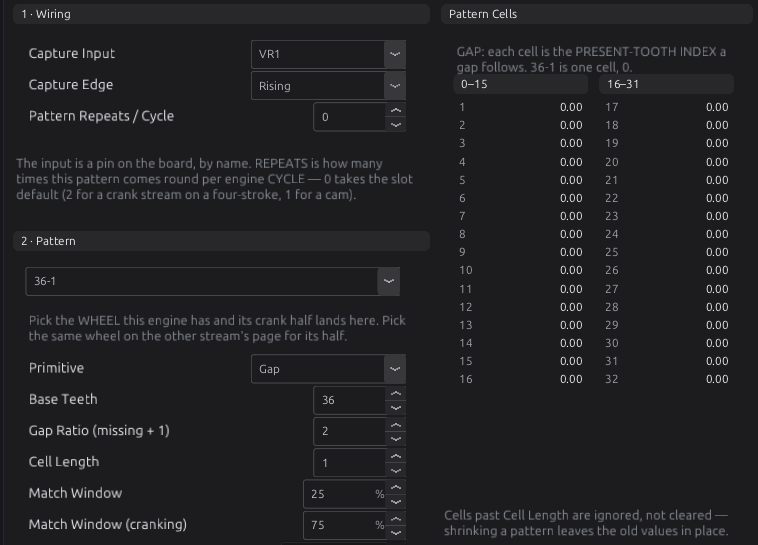
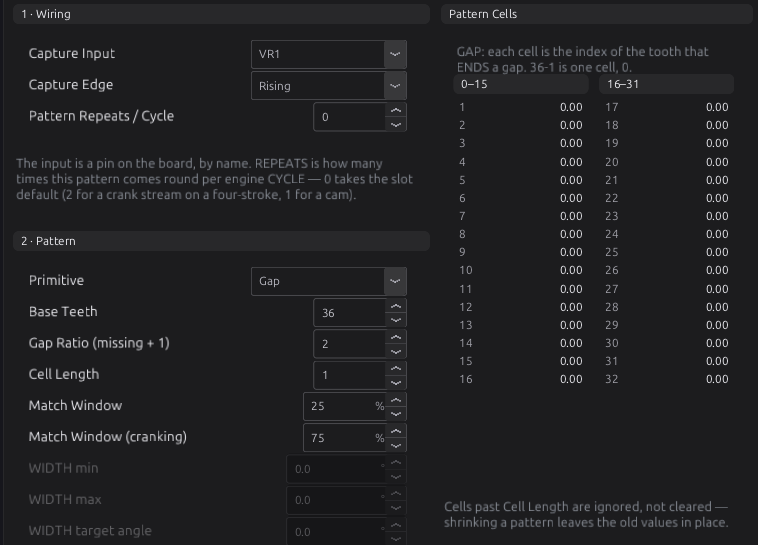
manual: stream pages have no wheel picker; install wheels from the Trigger Library

diff --git a/manual/docs/part3/16-trigger.md b/manual/docs/part3/16-trigger.md
@@ -369,7 +369,7 @@ The page, in the order it appears:
 Click **Crank Primary** to open its page.
 
 <figure markdown>
-  ![The Crank Primary page: 1 Wiring, 2 Pattern with the wheel picker set to 60-2, the Pattern Cells, 3 Proof with the dial and trace, and the Right Now readouts](../img/studio/trigger-crank-primary.png)
+  ![The Crank Primary page: 1 Wiring, 2 Pattern set for a 60-2, the Pattern Cells, 3 Proof with the dial and trace, and the Right Now readouts](../img/studio/trigger-crank-primary.png)
   <figcaption>Figure 16.12 — Crank Primary with a 60-2 wheel. The Proof panel draws this stream as it
   is set now.</figcaption>
 </figure>
@@ -388,11 +388,11 @@ Click **Crank Primary** to open its page.
 
 **2 · Pattern**
 
-1. Pick your wheel in the drop-down at the top of the panel. It lists every wheel in the library
-   that has a crank half. Picking one writes that half's pattern settings into this stream: the
-   primitive, teeth, gap ratio and cells, or the width band. It does not touch the input, the edge
-   or the offset.
-   <!-- src: apps/studio-jf/tools/layout/engine_pages.py -->
+1. Install your wheel from the Trigger Library with **Apply to ECU** (Step 5). It writes the pattern
+   of every stream at once, so this panel is already filled in. There is no wheel list on this page:
+   a list per stream could not tell apart wheels that share a crank pattern, such as the 2JZ with
+   and without its cam, and it set only one stream.
+   <!-- src: apps/studio-jf/tools/layout/engine_pages.py; apps/studio-jf/src/model/TriggerWheel.cpp:wheelPairs -->
 2. Check the fields it filled in:
     - **Primitive** `primitive`: Gap, Sequence or Width.
     - **Base Teeth** `slots` (Gap): the count with nothing missing. A 60-2 is **60**, not 58.
@@ -418,12 +418,12 @@ Level**, **RPM**, **Crank Angle** and **Error Rate** while you crank.
 Click **Cam Intake B1** (or open it from the Trigger System page).
 
 <figure markdown>
-  ![The Cam Intake B1 page with the wheel picker set to 60-2 + cam, Primitive Width, WIDTH min 0, max 720, target 0, and the Cam Phase panel with Nominal Angle, Cam Is Phased, Phaser Authority and Mech Allowance](../img/studio/trigger-cam.png)
+  ![The Cam Intake B1 page set for the cam of a 60-2 + cam: Primitive Width, WIDTH min 0, max 720, target 0, and the Cam Phase panel with Nominal Angle, Cam Is Phased, Phaser Authority and Mech Allowance](../img/studio/trigger-cam.png)
   <figcaption>Figure 16.13 — A one-pulse cam as a Width stream with a band that accepts any pulse.</figcaption>
 </figure>
 
-1. Set **Capture Input** (DIG1 in the example) and pick the **same wheel** in the Pattern drop-down,
-   so the cam half of it lands here.
+1. Set **Capture Input** (DIG1 in the example). The wheel you applied from the library has already
+   set this stream's pattern.
 2. For a one-pulse cam, the Width band is **0 to 720°**. It accepts any pulse, which is right when
    there is only one.
 3. **WIDTH target angle**: where the pulse's leading edge sits, in decoder degrees over the cycle
@@ -444,9 +444,10 @@ Click **Cam Intake B1** (or open it from the Trigger System page).
       gear lash may move the cam before it counts as a fault.
       <!-- src: definition/ecu.schema.yaml; firmware/Scheduler/GenericTrigger.h -->
 
-!!! tip "The designer does steps 3 and 4 in one go"
+!!! tip "The library fills in steps 3 and 4"
     Loading a wheel in the Trigger Designer and pressing **Apply to ECU** writes every stream, the
-    offset and the pickup angle at once. See the next section.
+    offset and the pickup angle at once. Steps 3 and 4 are then for checking what it wrote, and for
+    the input and the cam's phase settings. See the next section.
 
 ### Step 5 — The Trigger Library and the Trigger Designer
 

diff --git a/manual/docs/part1/06-quick-start.md b/manual/docs/part1/06-quick-start.md
@@ -165,16 +165,17 @@ works out each cylinder's air from it.
 **3b. Trigger** (**Configuration ▸ Engine Configuration ▸ Trigger System**,
 [chapter 16](../part3/16-trigger.md)). Tick the stream for each sensor you wired (**Crank Primary**,
 and a **Cam** stream if you have one). On each stream's page, set **Capture Input** to the pin you
-wired and pick your wheel from the **Pattern** list, or from the Trigger Library
-([reference](../reference/trigger-wheels.md)). A library wheel also writes its **Trigger Offset BTDC**
-if it has one. Otherwise enter your engine's number on the Trigger System page.
+wired. Then install your wheel from the **Trigger Library** ([reference](../reference/trigger-wheels.md)):
+double-click it and press **Apply to ECU**. That sets the pattern of every stream at once. A library
+wheel also writes its **Trigger Offset BTDC** if it has one. Otherwise enter your engine's number on
+the Trigger System page.
 <!-- src: definition/ecu.schema.yaml (streams[].enabled, capture_index); apps/studio-jf/src/model/TriggerWheel.cpp -->
 
 <figure markdown>
-  ![The Crank Primary stream page: Capture Input VR1, Capture Edge Rising, Pattern 36-1, Primitive Gap, Base Teeth 36, Gap Ratio 2, Cell Length 1](../img/studio/quick-start-crank-stream.png)
-  <figcaption>Figure 6.4 — The Crank Primary stream for a 36-1 wheel on VR1. Choosing <b>36-1</b> in
-  the pattern list fills in Primitive, Base Teeth, Gap Ratio and the cell. Tick <b>Enabled</b> at the
-  top of the page, or the stream is not decoded at all.</figcaption>
+  ![The Crank Primary stream page: Capture Input VR1, Capture Edge Rising, Primitive Gap, Base Teeth 36, Gap Ratio 2, Cell Length 1](../img/studio/quick-start-crank-stream.png)
+  <figcaption>Figure 6.4 — The Crank Primary stream for a 36-1 wheel on VR1. Applying the
+  <b>36-1</b> wheel from the Trigger Library fills in Primitive, Base Teeth, Gap Ratio and the cell.
+  Tick <b>Enabled</b> at the top of the page, or the stream is not decoded at all.</figcaption>
 </figure>
 
 <figure markdown>
